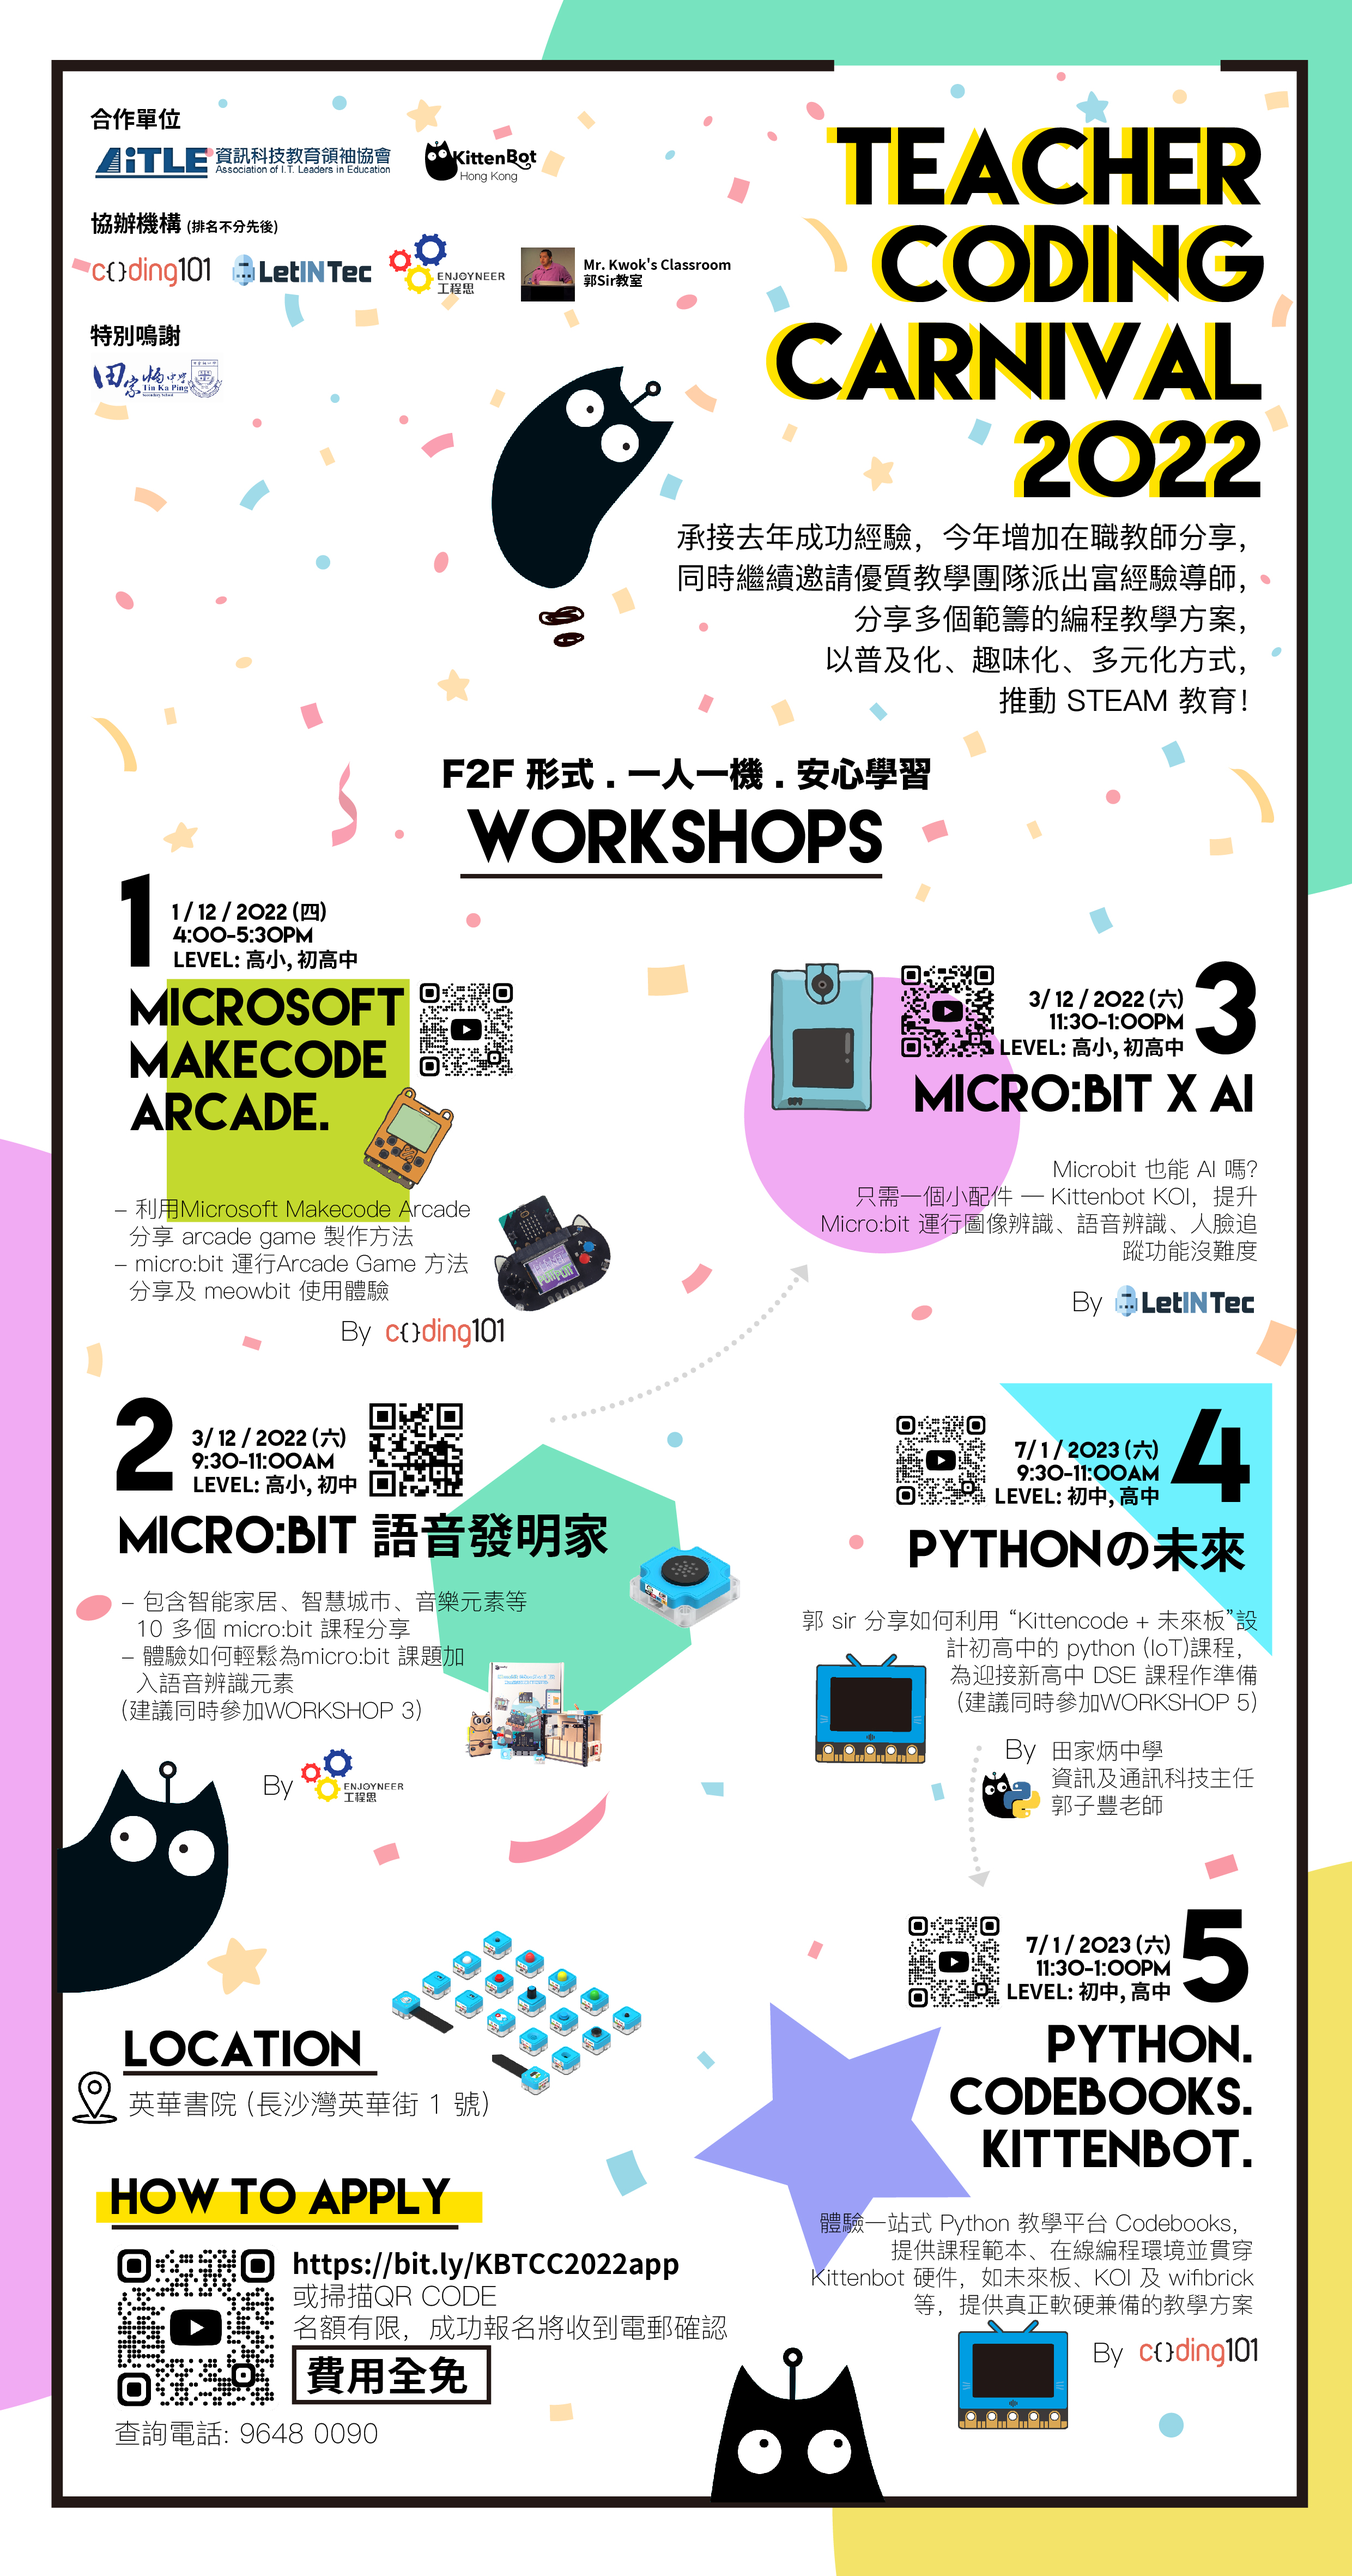
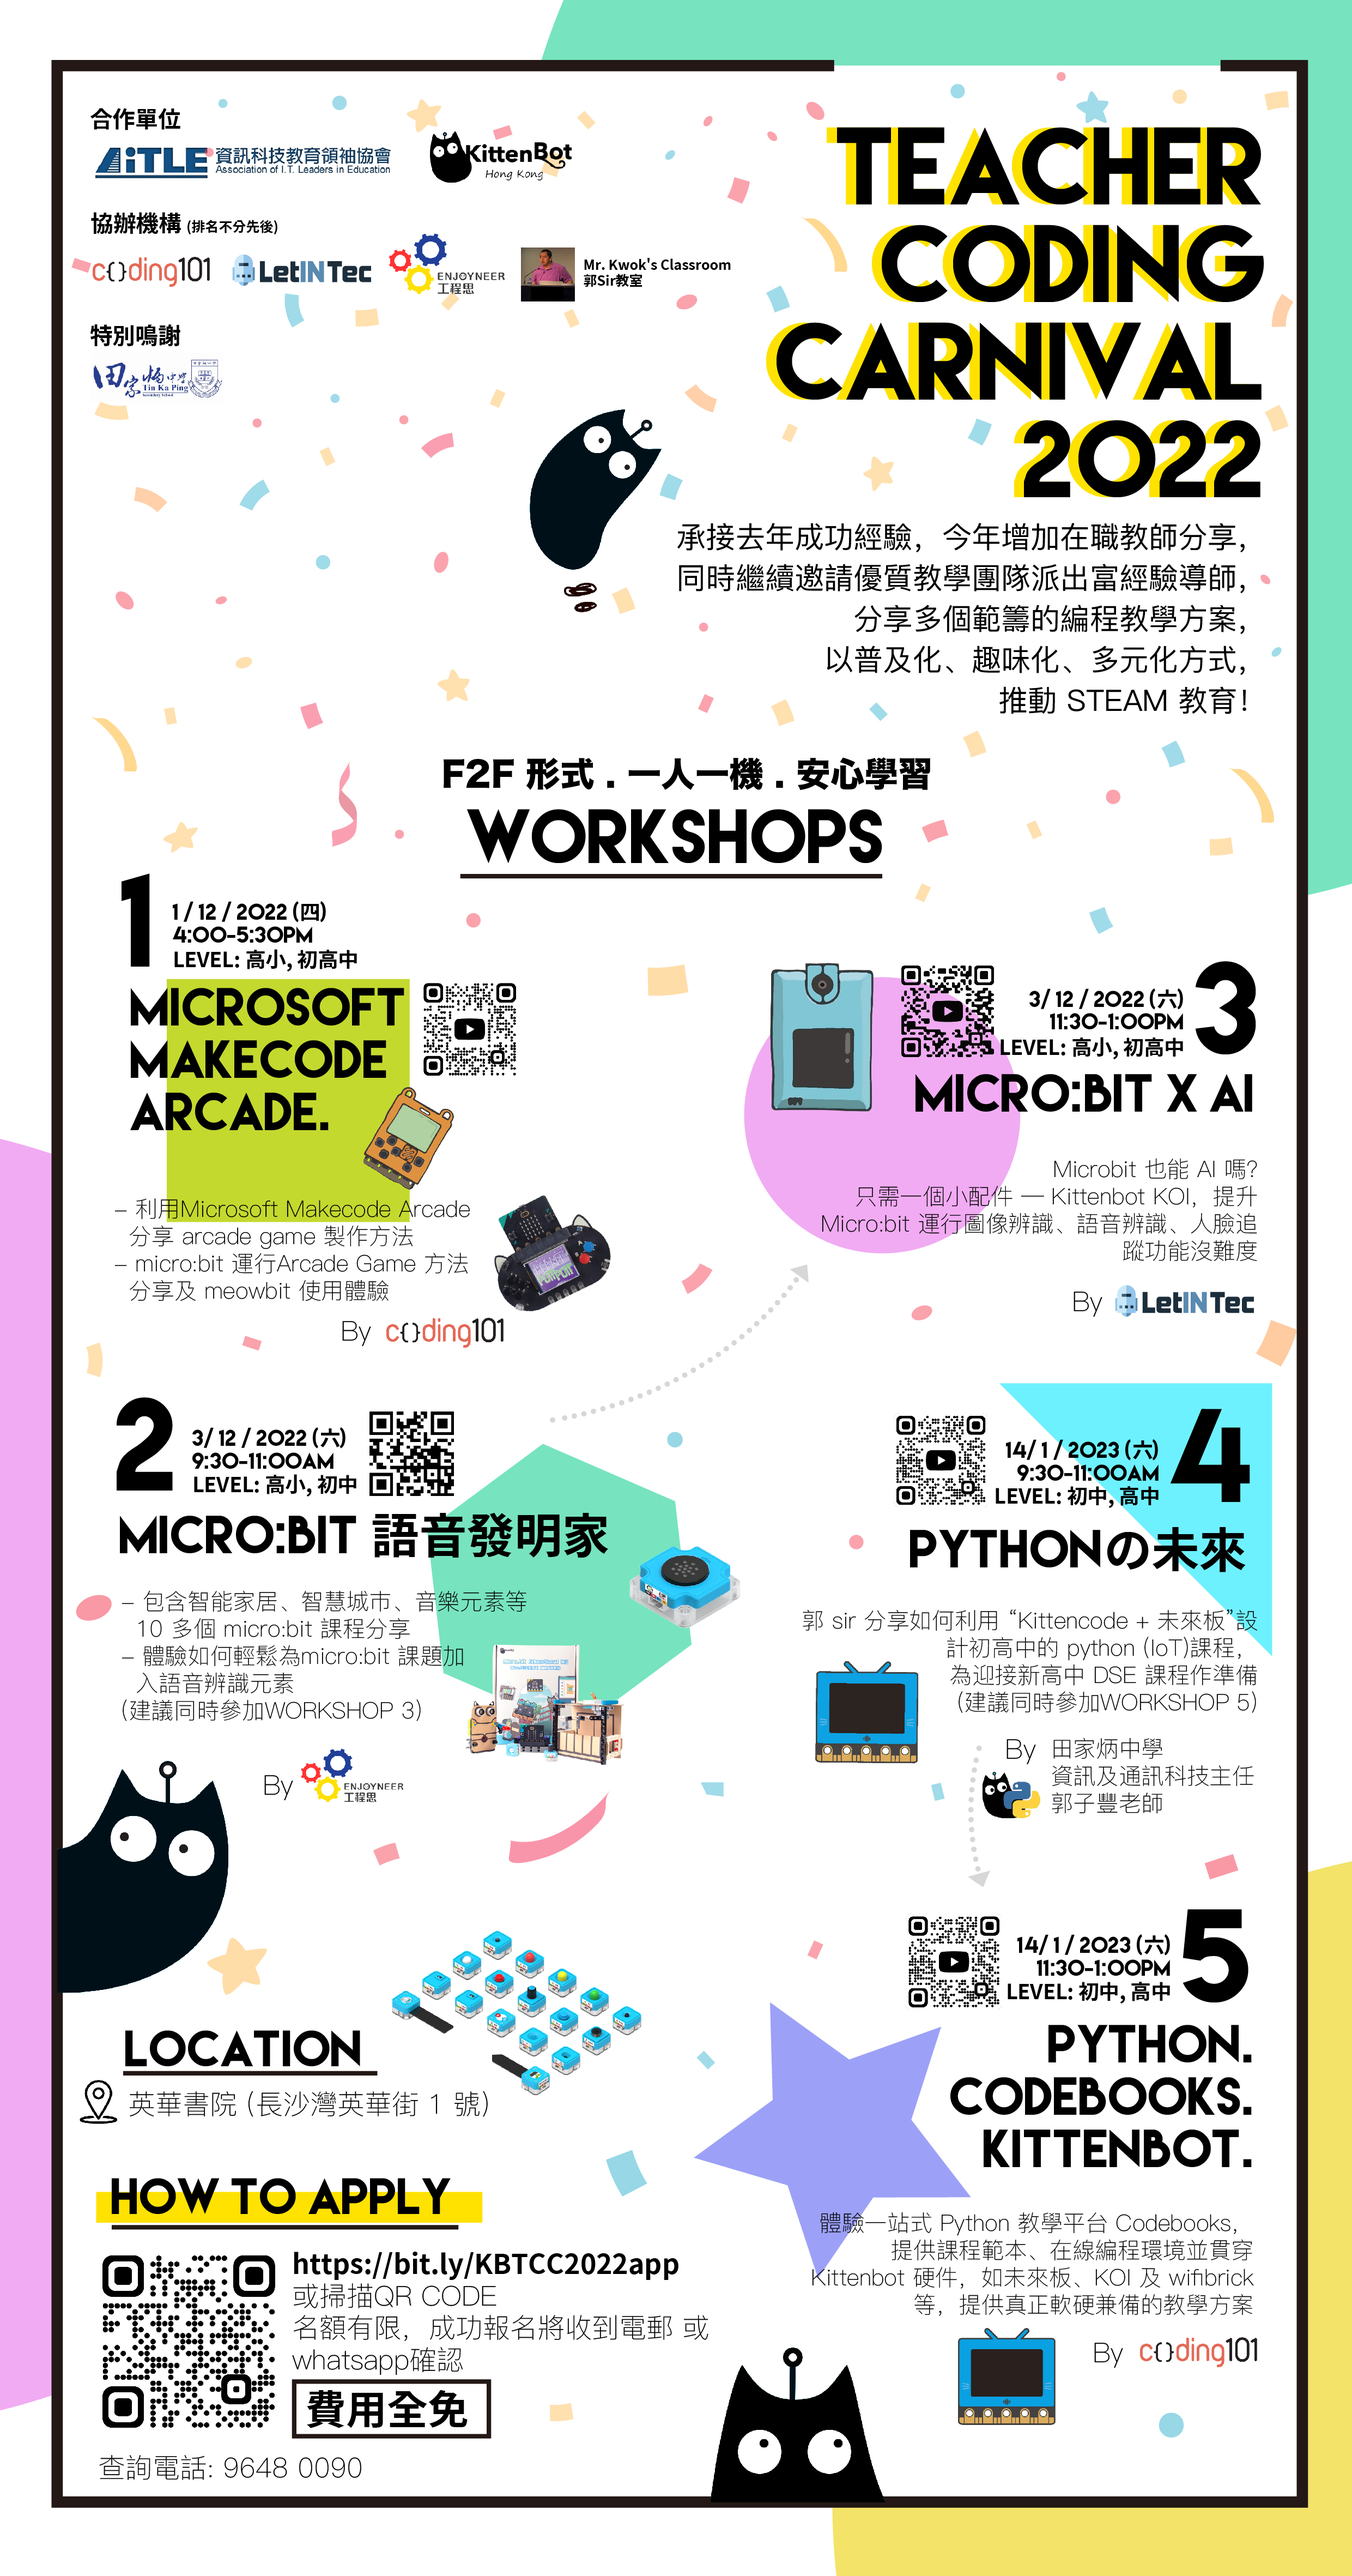
14-1

diff --git a/carnival2022/carnival.md b/carnival2022/carnival.md
@@ -67,7 +67,7 @@ Microbit 也能AI嘛?
 (建議同時參加Workshop 5)
 
 
-- 日期: 2023年1月7日
+- 日期: 2023年1月14日
 - 時間: 09:30-11:00
 - 地點: 英華小學
 - 講者: 田家炳中學 資訊及通訊科技主任 郭子豐老師
@@ -78,7 +78,7 @@ Microbit 也能AI嘛?
 
 體驗一站式Python 教學平台Codebooks, 提供課程範本﹑在線編程環境並貫穿Kittenbot 硬件, 如未來板﹑KOI  及wifibrick 等, 提供真正軟硬兼備的教學方案。
 
-- 日期: 2023年1月7日
+- 日期: 2023年1月14日
 - 時間: 11:30-13:00
 - 地點: 英華小學
 - 講者: Coding101
